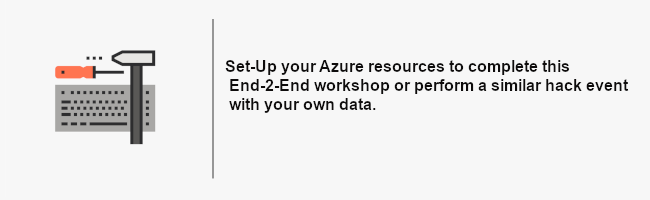
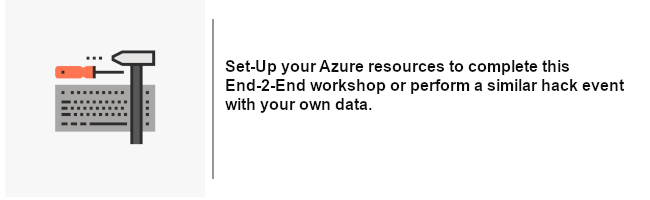
img fix

Changed region(s): [[0.3385, 0.39, 0.9846, 0.57]]

diff --git a/README.md b/README.md
@@ -19,9 +19,6 @@ Let’s get hands-on with __Azure Machine Learning__ by working through a custom
 
 ![config_title.png](images/config_title.png)
 
-|![hackathon design](/images/config_img.png)| Set-Up your Azure resources to complete this End-2-End workshop or perform a similar hack event with your own data.|
-|---|---|
-
 The following resources are implemented through-out this material, please ensure you can create in your subscription or resource group:
 - [Azure Storage Account - Blob](https://docs.microsoft.com/en-us/azure/storage/common/storage-account-overview)
 - [Azure Machine Learning Workspace](https://docs.microsoft.com/en-us/azure/machine-learning/overview-what-is-azure-ml)
@@ -30,15 +27,13 @@ The following resources are implemented through-out this material, please ensure
 
 ## [Step 2 - Data Load with Azure Databricks](02-DataLoad/)
 
-| ![hackathon design](/images/data_load.png) | Leverage Powerful cloud compute with Spark as a Service to load, transform and explore the customer churn data.|
-|---|---|
+![title](images/dataprep_title.png)
 
 ## [Step 3 - Azure Automated ML and Azure Databricks](03-AutoML/)
 
-|![hackathon design](/images/ml_img.png)|Combine Azure Databricks with Azure Machine Learning Service to accelerate the development of the customer churn model with AutoML.|
-|---|---|
+![title](images/ml_title.png)
 
 ## [Step 4 - Model Deployment Automation with Azure DevOps (CI/CD)](04-MLOps-CICD/)
 
-|![hackathon design](/images/deployment_automation.png)|Automate the Databricks Notebooks that were created for data prep, model training and model deployment in a CI/CD pipeline with Azure DevOps.|
-|---|---|
+![title](images/mlops_title.png)
+
